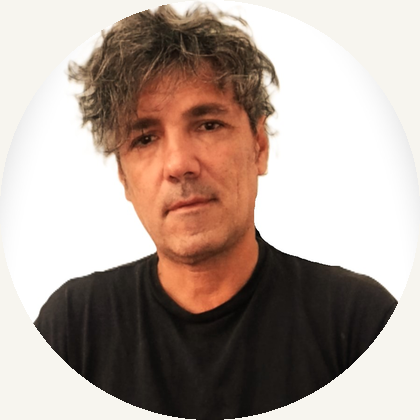
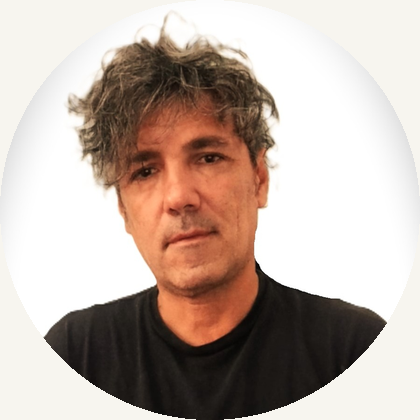
Usa recorte de perfil con mas aire arriba

Changed region(s): [[0.0619, 0.0, 0.9595, 0.8357], [0.8048, 0.7738, 0.8357, 0.8048]]

diff --git a/public/index.html b/public/index.html
@@ -8,7 +8,7 @@
       content="CV web de Luis Sebastian Martinez Morinigo, desarrollador full stack con experiencia en logistica, digitalizacion de procesos y produccion audiovisual."
     />
     <title>Luis Martinez | Desarrollador Full Stack</title>
-    <link rel="stylesheet" href="./styles.css?v=7" />
+    <link rel="stylesheet" href="./styles.css?v=8" />
   </head>
   <body>
     <header class="site-header" id="inicio">
@@ -65,7 +65,7 @@
         <aside class="hero-panel reveal-item" aria-label="Resumen profesional">
           <img
             class="avatar"
-            src="./assets/foto-luis-v4.jpeg"
+            src="./assets/foto-luis-v5.jpeg"
             alt="Foto de perfil de Luis Martinez"
           />
           <div class="metric-grid">
